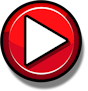
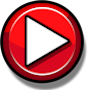
badge rework

diff --git a/src/main.cpp b/src/main.cpp
@@ -71,35 +71,19 @@ class $modify(YouTuberAlert, ProfilePage) {
 			}
 			lower_player_name.erase(remove_if(lower_player_name.begin(), lower_player_name.end(), isspace), lower_player_name.end());
 			if (lower_names == lower_player_name) {
-				CCNode* first_letter = reinterpret_cast<CCNode*>(m_usernameLabel->getChildren()->objectAtIndex(0));
-
-				CCMenu* icon_menu = CCMenu::create();
-				icon_menu->setID("xanii.youtubers/YouTuber-Badge");
-				icon_menu->setPosition({0,0});
+				auto mainLayer = static_cast<CCLayer*>(this->getChildren()->objectAtIndex(0));
+				auto usernameMenu = mainLayer->getChildByID("username-menu");
 
 				m_fields->badge = CCSprite::create("youtuber.png"_spr);
+				m_fields->badge->setScale(0.95);
 				
 				m_fields->icon = CCMenuItemSpriteExtra::create(m_fields->badge, this, menu_selector(YouTuberAlert::found_youtube));
-				m_fields->icon->setScale(m_usernameLabel->getScale() + 0.05f);
-				m_fields->icon->setPosition(first_letter->convertToWorldSpace(getPosition()));
+				m_fields->icon->setID("xanii.youtubers/YouTuber-Badge");
 
-				CCLayer* layer = static_cast<CCLayer*>(getChildren()->objectAtIndex(0));
-				CCNode* mod_badge = static_cast<CCMenu*>(layer->getChildByID("username-menu"))->getChildByID("mod-badge");
-
-				if (mod_badge) {
-					m_fields->is_mod = true;
-					m_fields->icon->setPosition({m_fields->icon->getPositionX() - 35.f, m_fields->icon->getPositionY() + 11.9f});
-					m_fields->icon->setScale(m_usernameLabel->getScale() + 0.05f);
-				}
-				else  {
-					m_fields->is_mod = false;
-					m_fields->icon->setPosition({m_fields->icon->getPositionX() - 12.f, m_fields->icon->getPositionY() + 9.9f});
-					m_fields->icon->setScale(m_usernameLabel->getScale() + 0.1f);
-				}
-
-				if (!reinterpret_cast<CCMenu*>(layer->getChildByID("xanii.youtubers/YouTuber-Badge"))) {
-					icon_menu->addChild(m_fields->icon);
-					layer->addChild(icon_menu);
+				if (!static_cast<CCMenu*>(usernameMenu->getChildByID("xanii.youtubers/YouTuber-Badge"))) {
+					usernameMenu->addChild(m_fields->icon);
+					usernameMenu->updateLayout();
+					m_fields->icon->setPositionY(m_fields->icon->getPositionY() - 1);
 				}
 			}
 		}

diff --git a/changelog.md b/changelog.md
@@ -1,3 +1,9 @@
+# Version 1.1.0
+
+- Added brand new YouTubers Menu
+- Clean ups and crash fixes
+- Reworked how badge is added to profiles, (added to username menu for nerds)
+
 # Version 1.0.6
 
 - Cleaned up log spam
